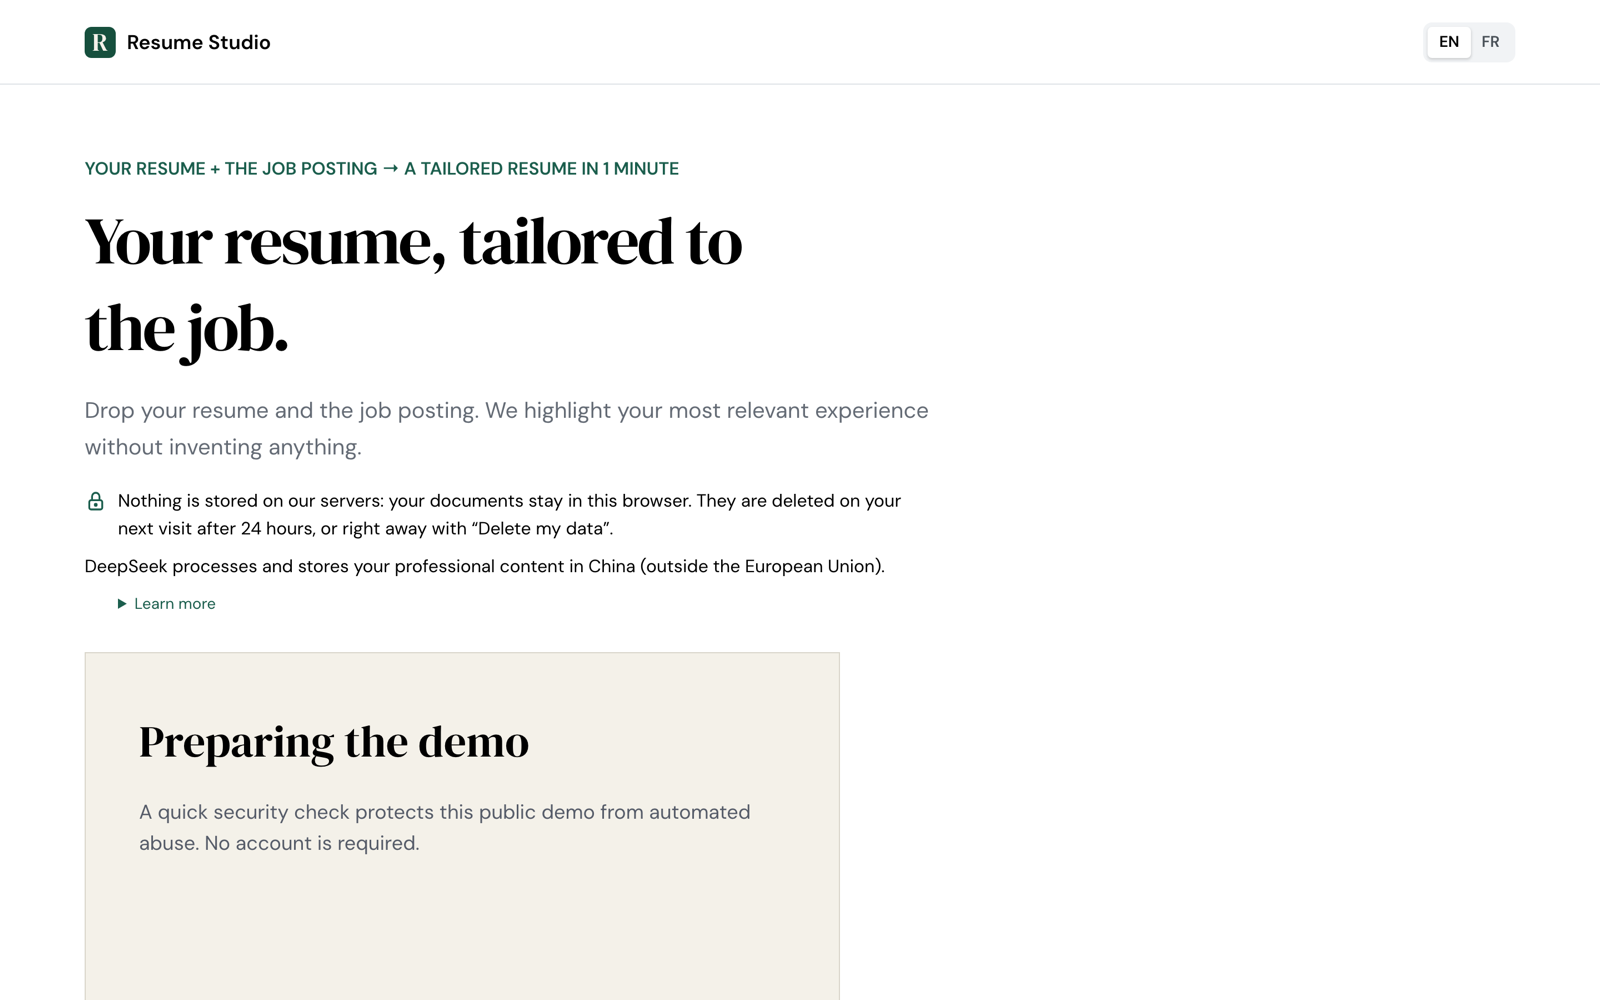
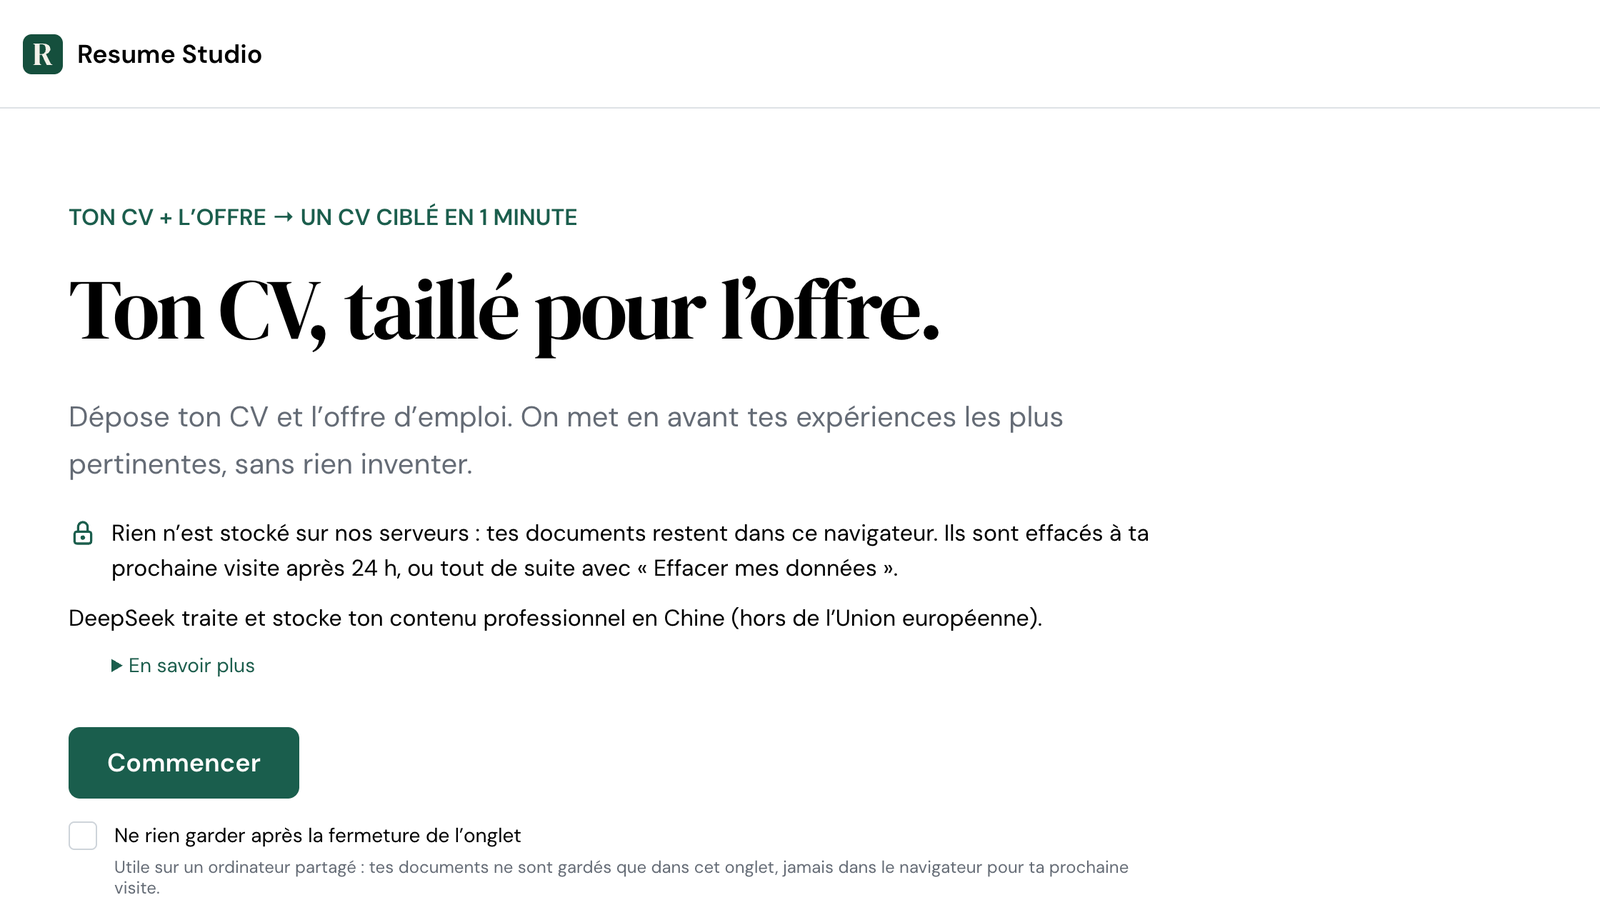
Show the Resume Studio journey in its gallery (#11)
Adds the intake form and a tailored resume preview, and replaces the
landing screenshot with the French one, all from the live demo.

diff --git a/src/i18n/languages/fr/projects.ts b/src/i18n/languages/fr/projects.ts
@@ -120,7 +120,7 @@ export const projectsContent = {
         "Chaque famille est un espace fermé : ses messages, ses documents et ses événements ne doivent être visibles que de ses membres, avec des droits différents pour un parent et pour un proche. Les deux parents doivent voir la même information au même moment. Et l'application s'adresse à des personnes souvent sous pression : la sécurité ne doit pas alourdir le parcours.",
       architectureDecisions: [
         'Un monorepo Turborepo et une application Next.js en TypeScript de bout en bout.',
-        "Convex comme backend temps réel : les deux parents partagent les mêmes événements et messages, en temps réel.",
+        'Convex comme backend temps réel : les deux parents partagent les mêmes événements et messages, en temps réel.',
         "Les familles modélisées comme des organisations Clerk : l'isolation des données et les permissions reposent sur l'organisation, plutôt que sur un middleware de sécurité écrit à la main.",
         'Des webhooks signés et idempotents entre Clerk et Convex : un événement reçu deux fois ne produit pas deux effets.',
         'Une messagerie sécurisée, des documents à accès restreint et une synchronisation avec Google Calendar.',
@@ -164,6 +164,15 @@ export const projectsContent = {
         alt: "Page d'accueil de Resume Studio",
         caption: "L'accueil : le CV et l'offre, sans compte",
       },
+      resumeStudioIntake: {
+        alt: "Formulaire de Resume Studio : le CV et l'offre d'emploi, par fichier ou texte collé",
+        caption: "Le CV et l'offre, la langue du CV, et le quota du jour",
+      },
+      resumeStudioTailoredResume: {
+        alt: 'Aperçu d’un CV adapté dans Resume Studio',
+        caption:
+          'Le CV adapté, avec le contenu masqué pour tenir sur deux pages et restaurable',
+      },
       resumeStudioProcessingPolicy: {
         alt: 'Politique de traitement de Resume Studio, dépliée',
         caption:
@@ -181,7 +190,7 @@ export const projectsContent = {
         "Des règles d'architecture vérifiées par dependency-cruiser : le domaine ne dépend de rien d'extérieur, le moteur ne connaît aucun fournisseur, seuls les adaptateurs serveur atteignent un modèle de langage, et l'interface ne les atteint qu'à travers la racine de composition.",
         "Un score déterministe : le modèle propose des preuves, mais une preuve ne compte que si elle cite un texte présent à la fois dans l'offre et dans les faits du candidat. Le score se calcule ensuite sans modèle : poids 3, 2 ou 1 selon l'importance de l'exigence, couverture totale, partielle ou nulle.",
         "Le modèle traité comme une dépendance : une configuration (modèle et réglages exacts) ne sert qu'après une évaluation enregistrée du rappel d'extraction, de la fidélité multilingue, de la latence, du coût et de la sûreté de la provenance.",
-        "Consentement et quota dans le domaine : le candidat accepte une politique de traitement versionnée avant le premier appel au modèle, un seul fournisseur est actif à la fois, et un quota journalier par réseau, sous un plafond global, est remis à zéro à minuit, heure de Paris.",
+        'Consentement et quota dans le domaine : le candidat accepte une politique de traitement versionnée avant le premier appel au modèle, un seul fournisseur est actif à la fois, et un quota journalier par réseau, sous un plafond global, est remis à zéro à minuit, heure de Paris.',
       ],
       outcome:
         "La démo est en ligne sur Cloudflare Workers. Le passage à DeepSeek comme fournisseur a suivi la même qualification, et ce sont des enregistrements en échec qui ont montré quoi changer : sans raisonnement, l'extraction retrouvait environ 60 % des exigences d'une offre, contre environ 94 % avec un raisonnement faible ; sur une offre en français, le modèle traduisait en anglais les valeurs des exigences dans 6 rejeux sur 15, ce qui aurait bloqué les candidats francophones. Après correction : 0 sur 15. DeepSeek ne sert en production qu'une fois tous les critères franchis.",

diff --git a/src/i18n/languages/en/projects.ts b/src/i18n/languages/en/projects.ts
@@ -165,6 +165,16 @@ export const projectsContent = {
         alt: 'Resume Studio landing page',
         caption: 'The landing page: the resume and the job posting, no account',
       },
+      resumeStudioIntake: {
+        alt: 'Resume Studio form: the resume and the job posting, as a file or pasted text',
+        caption:
+          'The resume and the job posting, the resume language, and today’s quota',
+      },
+      resumeStudioTailoredResume: {
+        alt: 'Preview of a tailored resume in Resume Studio',
+        caption:
+          'The tailored resume, with content hidden to fit two pages and restorable',
+      },
       resumeStudioProcessingPolicy: {
         alt: 'Resume Studio processing policy, expanded',
         caption:

diff --git a/src/features/projects/service.ts b/src/features/projects/service.ts
@@ -41,8 +41,10 @@ import {
   parentUpTrustedCircle,
 } from '@/assets/projects/parentup';
 import {
+  resumeStudioIntake,
   resumeStudioLanding,
   resumeStudioProcessingPolicy,
+  resumeStudioTailoredResume,
 } from '@/assets/projects/resumestudio';
 import {
   terralHubAboutUs,
@@ -93,6 +95,8 @@ const projectsData: Array<ProjectData> = [
     date: '2026-09-26',
     galleryImages: [
       { id: 'resumeStudioLanding', src: resumeStudioLanding },
+      { id: 'resumeStudioIntake', src: resumeStudioIntake },
+      { id: 'resumeStudioTailoredResume', src: resumeStudioTailoredResume },
       { id: 'resumeStudioProcessingPolicy', src: resumeStudioProcessingPolicy },
     ],
     keyFeatures: [

diff --git a/src/assets/projects/resumestudio/index.ts b/src/assets/projects/resumestudio/index.ts
@@ -1,2 +1,4 @@
 export { default as resumeStudioLanding } from './landing.png';
+export { default as resumeStudioIntake } from './intake.png';
+export { default as resumeStudioTailoredResume } from './tailored-resume.png';
 export { default as resumeStudioProcessingPolicy } from './processing-policy.png';
